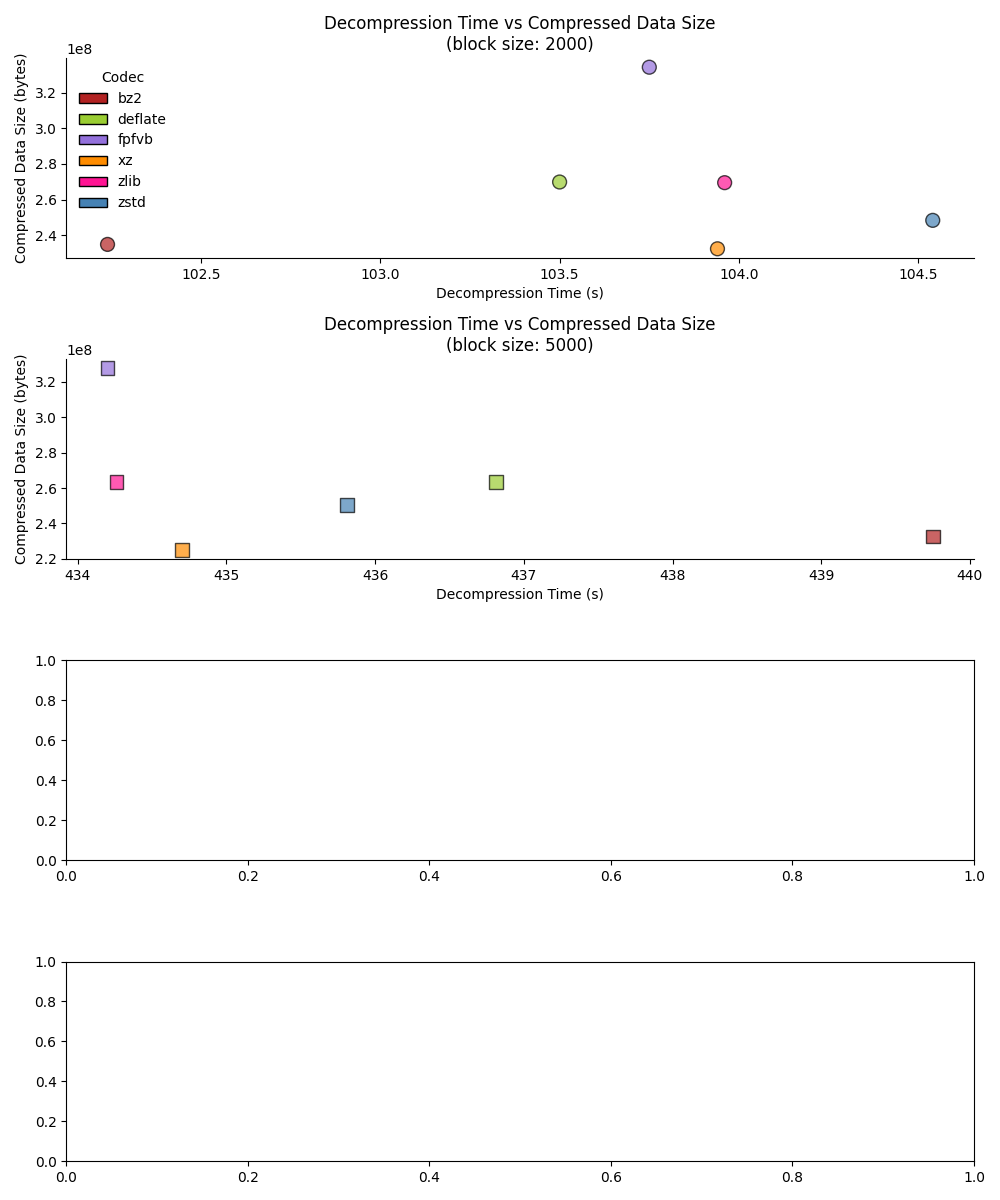
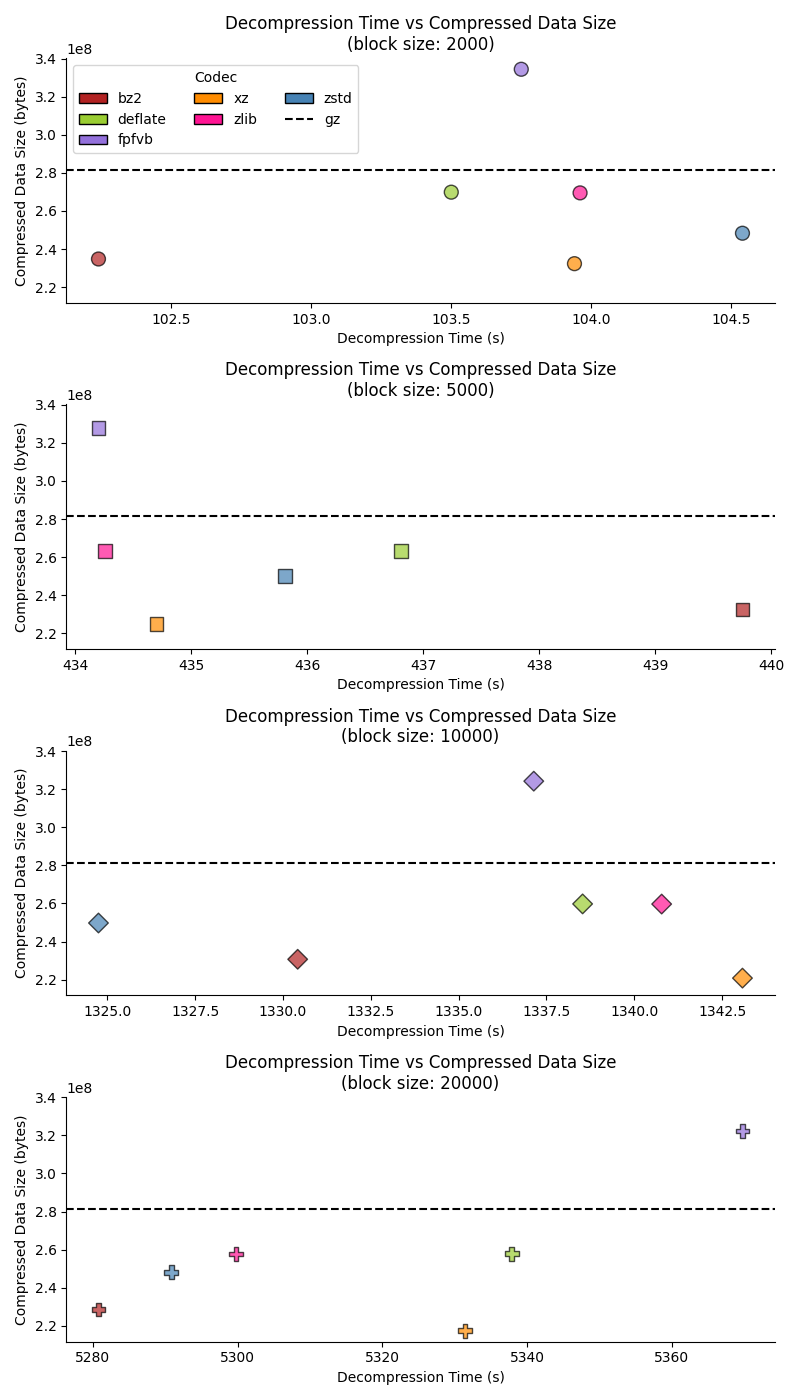
full file timing for 20000

diff --git a/scripts/utils.py b/scripts/utils.py
@@ -71,30 +71,38 @@ def read_timing_file(timing_file,
                 codec = line.split(': ')[1].strip()
             elif 'Compressing...' in line:
                 total_time = f.readline().split()[7]
-                try:
-                    minutes = int(total_time.split(':')[0]) * 60
-                    seconds = float(total_time.split(':')[1])
-                except:
-                    minutes = 0
-                    seconds = float(total_time)
-                timing[codec]['compression'] = minutes + seconds
+                timing[codec]['compression'] = convert_to_seconds(total_time)
             elif 'Indexing...' in line:
                 total_time = f.readline().split()[8]
-                try:
-                    minutes = int(total_time.split(':')[0]) * 60
-                    seconds = float(total_time.split(':')[1])
-                except:
-                    minutes = 0
-                    seconds = float(total_time)
-                timing[codec]['indexing'] = minutes + seconds
+                timing[codec]['indexing'] = convert_to_seconds(total_time)
             elif 'Decompressing...' in line:
                 total_time = f.readline().split()[7]
-                try:
-                    minutes = int(total_time.split(':')[0]) * 60
-                    seconds = float(total_time.split(':')[1])
-                except:
-                    minutes = 0
-                    seconds = float(total_time)
-                timing[codec]['decompression'] = minutes + seconds
+                timing[codec]['decompression'] = convert_to_seconds(total_time)
 
     return timing
+
+def convert_to_seconds(time_str):
+    '''
+    Convert a time string in the format of HH:MM:SS to seconds
+    :param time_str: time string in the format of HH:MM:SS
+    :return: time in seconds
+    '''
+    hours = 0
+    minutes = 0
+    seconds = 0
+
+    try:
+        hours = int(time_str.split(':')[0]) * 3600
+        minutes = int(time_str.split(':')[1]) * 60
+        seconds = float(time_str.split(':')[2])
+    except:
+        try:
+            hours = 0
+            minutes = int(time_str.split(':')[0]) * 60
+            seconds = float(time_str.split(':')[1])
+        except:
+            hours = 0
+            minutes = 0
+            seconds = float(time_str)
+
+    return hours + minutes + seconds

diff --git a/scripts/plot_size_time.py b/scripts/plot_size_time.py
@@ -39,7 +39,7 @@ def plot_timing_vs_size(timing_data,
     # y-axis: compressed data size
     # one subplot for each block size
 
-    fig, axs = plt.subplots(len(markers), 1, figsize=(10, 12))
+    fig, axs = plt.subplots(len(markers), 1, figsize=(8, 14), sharex=False, sharey=True)
     for i, block_size in enumerate(timing_data):
         color_list = []
         decompression_times = []
@@ -57,6 +57,9 @@ def plot_timing_vs_size(timing_data,
                     alpha=0.7,
                     label=block_size)
 
+        # add a horizontal line for the gzipped file size
+        axs[i].axhline(y=file_sizes['GCST90179150_buildGRCh37.tsv.gz'], color='black', linestyle='--', label='gz')
+
         axs[i].set_xlabel('Decompression Time (s)')
         axs[i].set_ylabel('Compressed Data Size (bytes)')
         axs[i].set_title('Decompression Time vs Compressed Data Size' + '\n(block size: ' + str(block_size) + ')')
@@ -67,9 +70,11 @@ def plot_timing_vs_size(timing_data,
         # legend for codecs
         codec_legend_elements = [Patch(facecolor=colors[codec], edgecolor='black', label=codec)
                                 for codec in colors]
+        codec_legend_elements.append(Line2D([0], [0], color='black', linestyle='--', label='gz'))
 
         if i == 0:
-            axs[i].legend(handles=codec_legend_elements, title='Codec', loc='upper left', frameon=False)
+            # make legend into two columns
+            axs[i].legend(handles=codec_legend_elements, title='Codec', loc='upper left', frameon=True, ncol=3)
 
     plt.tight_layout()
     plt.savefig(output_dir + 'decompression_time_vs_size.png')
@@ -83,7 +88,7 @@ def main():
     file_sizes = utils.read_gwas_file_sizes(args.file_sizes)
 
     codecs = ['bz2', 'deflate', 'fpfvb', 'xz', 'zlib', 'zstd']
-    block_sizes = [2000, 5000]
+    block_sizes = [2000, 5000, 10000, 20000]
     colors = utils.read_colors(args.colors)
     block_data = {block_size: defaultdict(dict) for block_size in block_sizes}
 

diff --git a/README.md b/README.md
@@ -46,6 +46,10 @@ python src/plot_col_sizes.py \
 </details>
 
 ### Plot decompression time by compression size
+Decompression time is measured by the time it takes to decompress the full file.<br>
+In this example, there are 3 queries.<br>
+- The first two queries only ever decompress a single block.
+- The third query decompresses up to 4 blocks (when block size = 2000)
 ```
 python src/plot_size_time.py \
     --file_sizes data/gwas_file_sizes.csv \
